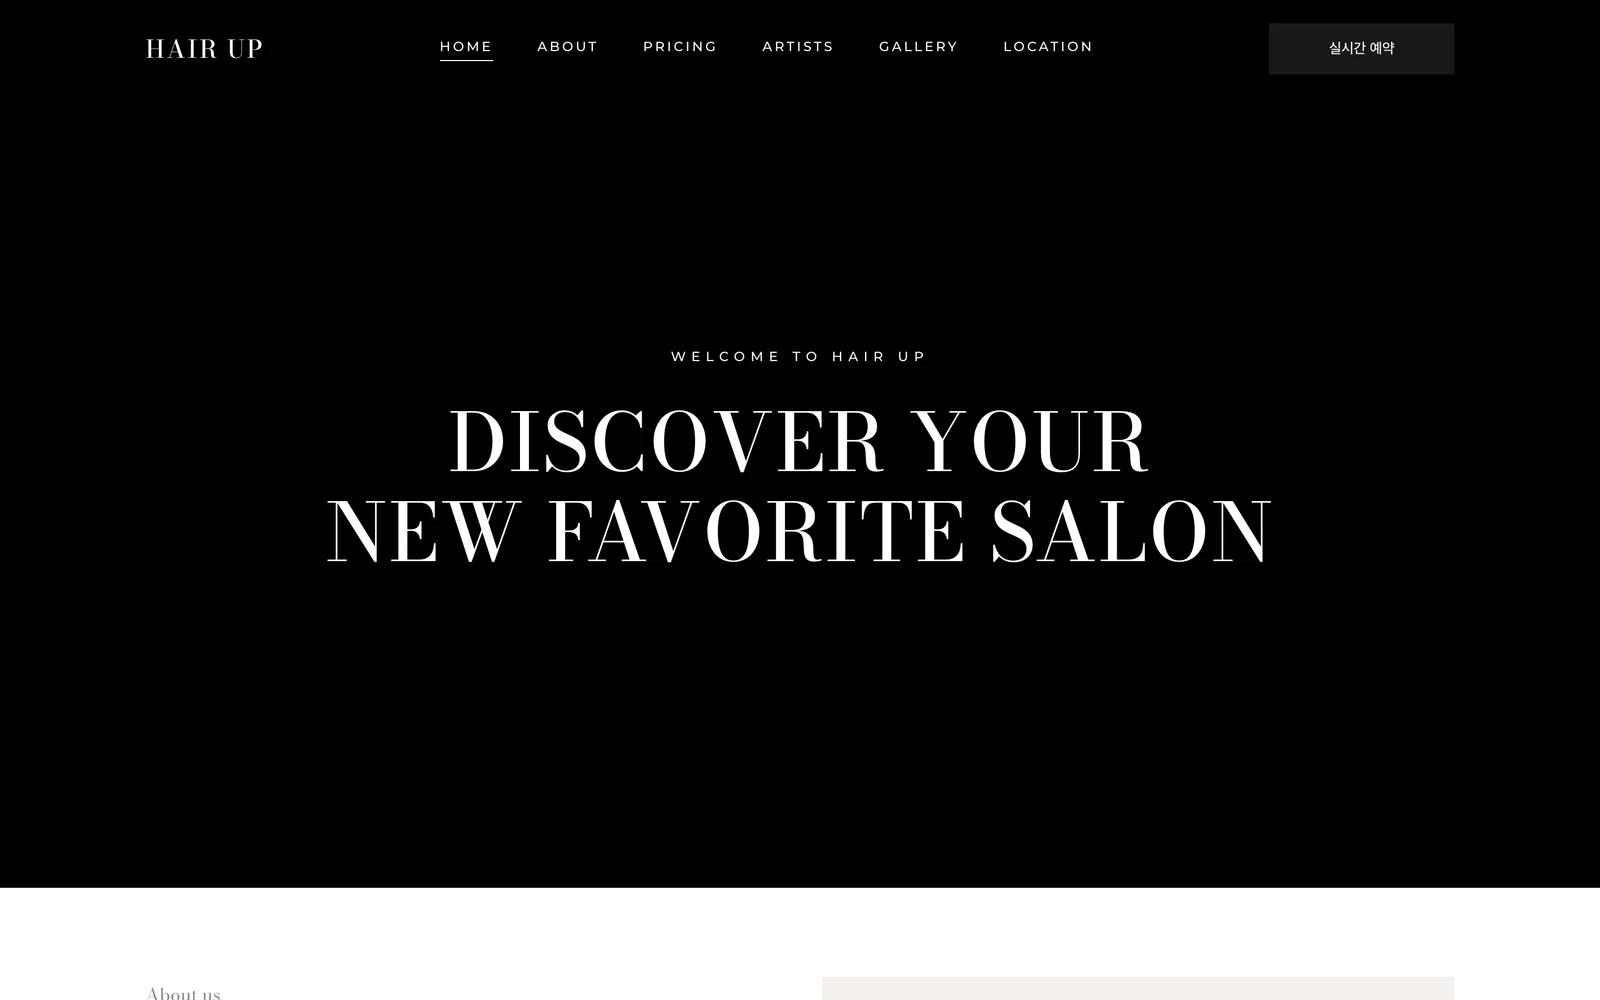
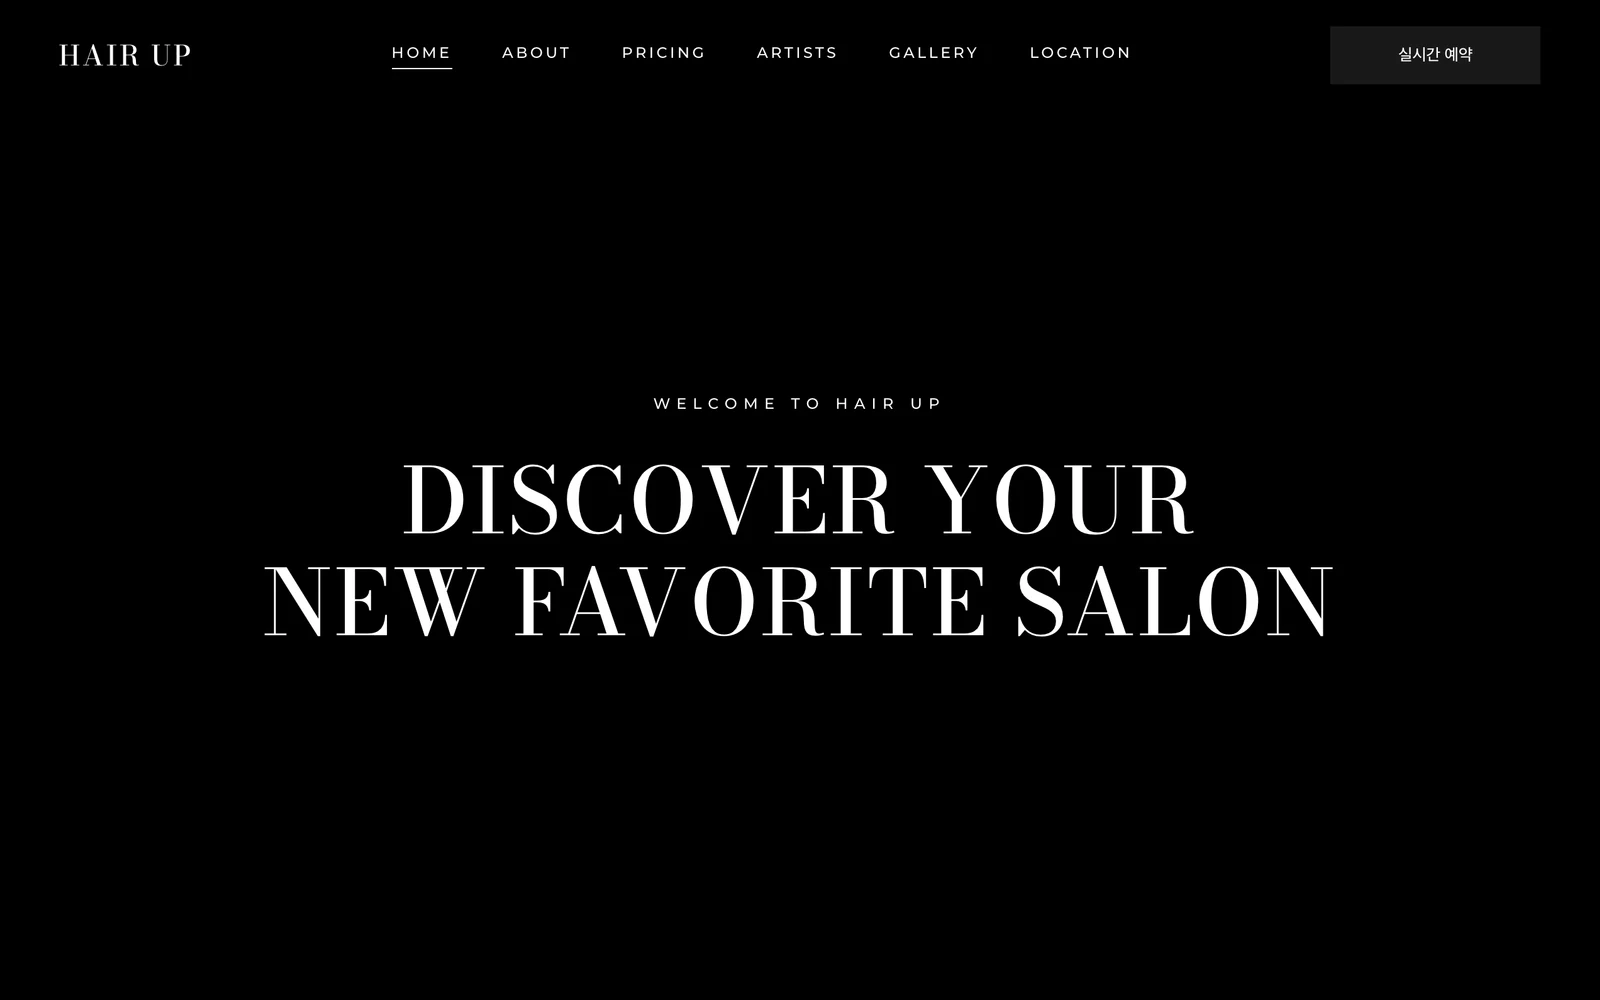
ㅠㅠ

diff --git a/src/components/sections/TemplateCollection.tsx b/src/components/sections/TemplateCollection.tsx
@@ -133,7 +133,17 @@ export function TemplateCollection() {
   };
 
   return (
-    <Canvas id="template-collection" height={HEIGHT} background="bg-cream" clip>
+    /*
+     * 카드 줄과 하단 문구 띠는 시안에서 좌우가 잘려 나가는 요소입니다.
+     * 1440 캔버스가 아니라 섹션(=화면 폭)에서 잘라내야 화면이 1440 보다 넓을 때
+     * 여백 안쪽에서 뚝 끊기지 않고 화면 끝까지 이어집니다.
+     */
+    <Canvas
+      id="template-collection"
+      height={HEIGHT}
+      background="bg-cream"
+      className="overflow-hidden"
+    >
       <p
         className="absolute inset-x-0 whitespace-pre text-center font-display text-[27px] font-semibold leading-none tracking-[-1.2px] text-forest"
         style={{ top: `${EYEBROW_TOP}px` }}
@@ -206,7 +216,7 @@ export function TemplateCollection() {
       </div>
 
       <div
-        className="absolute inset-x-0 overflow-hidden"
+        className="absolute left-1/2 w-screen -translate-x-1/2 overflow-hidden"
         style={{ top: `${MARQUEE.top}px`, height: `${MARQUEE.height}px` }}
         aria-hidden
       >
@@ -219,7 +229,7 @@ export function TemplateCollection() {
               wordSpacing: `${MARQUEE.wordSpacing}px`,
             }}
           >
-            {[0, 1].map((copy) =>
+            {[0, 1, 2].map((copy) =>
               templateCollection.marquee.map((phrase) => (
                 <span
                   key={`${copy}-${phrase}`}
@@ -264,7 +274,9 @@ function TemplateCard({ template, centered, onSelect }: CardProps) {
 
       {centered ? (
         <>
-          <div className="absolute inset-0 bg-black/60 opacity-0 transition-opacity duration-500 group-hover:opacity-100" />
+          {/* 시안은 카드 안이 통째로 검정이라, 대문 이미지 위 글자가 그만큼
+              또렷하게 읽히도록 충분히 어둡게 덮습니다. */}
+          <div className="absolute inset-0 bg-black/90 opacity-0 transition-opacity duration-500 group-hover:opacity-100" />
 
           <div className="pointer-events-none absolute inset-0 opacity-0 transition-opacity duration-500 group-hover:opacity-100">
             <p

diff --git a/src/app/globals.css b/src/app/globals.css
@@ -88,12 +88,14 @@ body {
 }
 
 /*
- * 07_Template Collection 하단 문구 띠. 문구 목록을 두 벌 이어 붙이고 한 벌
- * 만큼(=50%) 밀어내면 이음매 없이 오른쪽에서 왼쪽으로 계속 흐릅니다.
+ * 07_Template Collection 하단 문구 띠. 문구 목록을 세 벌 이어 붙이고 한 벌
+ * 만큼(=1/3) 밀어내면 이음매 없이 오른쪽에서 왼쪽으로 계속 흐릅니다.
+ * 세 벌인 이유는 한 벌이 끝까지 밀려간 순간에도 남은 두 벌이 넓은 화면을
+ * 빈틈없이 덮게 하기 위해서입니다.
  */
 @keyframes template-marquee {
   to {
-    transform: translateX(-50%);
+    transform: translateX(-33.3333%);
   }
 }
 

diff --git a/src/components/layout/Canvas.tsx b/src/components/layout/Canvas.tsx
@@ -8,8 +8,6 @@ type CanvasProps = {
   children: ReactNode;
   className?: string;
   id?: string;
-  /** 아트보드 밖으로 나가는 요소를 1440 경계에서 잘라냅니다. */
-  clip?: boolean;
 };
 
 /**
@@ -23,12 +21,11 @@ export function Canvas({
   children,
   className,
   id,
-  clip,
 }: CanvasProps) {
   return (
     <section id={id} className={`w-full ${background} ${className ?? ""}`}>
       <div
-        className={`relative mx-auto w-[1440px] ${clip ? "overflow-hidden" : ""}`}
+        className="relative mx-auto w-[1440px]"
         style={{ height: `${height}px` }}
       >
         {children}
